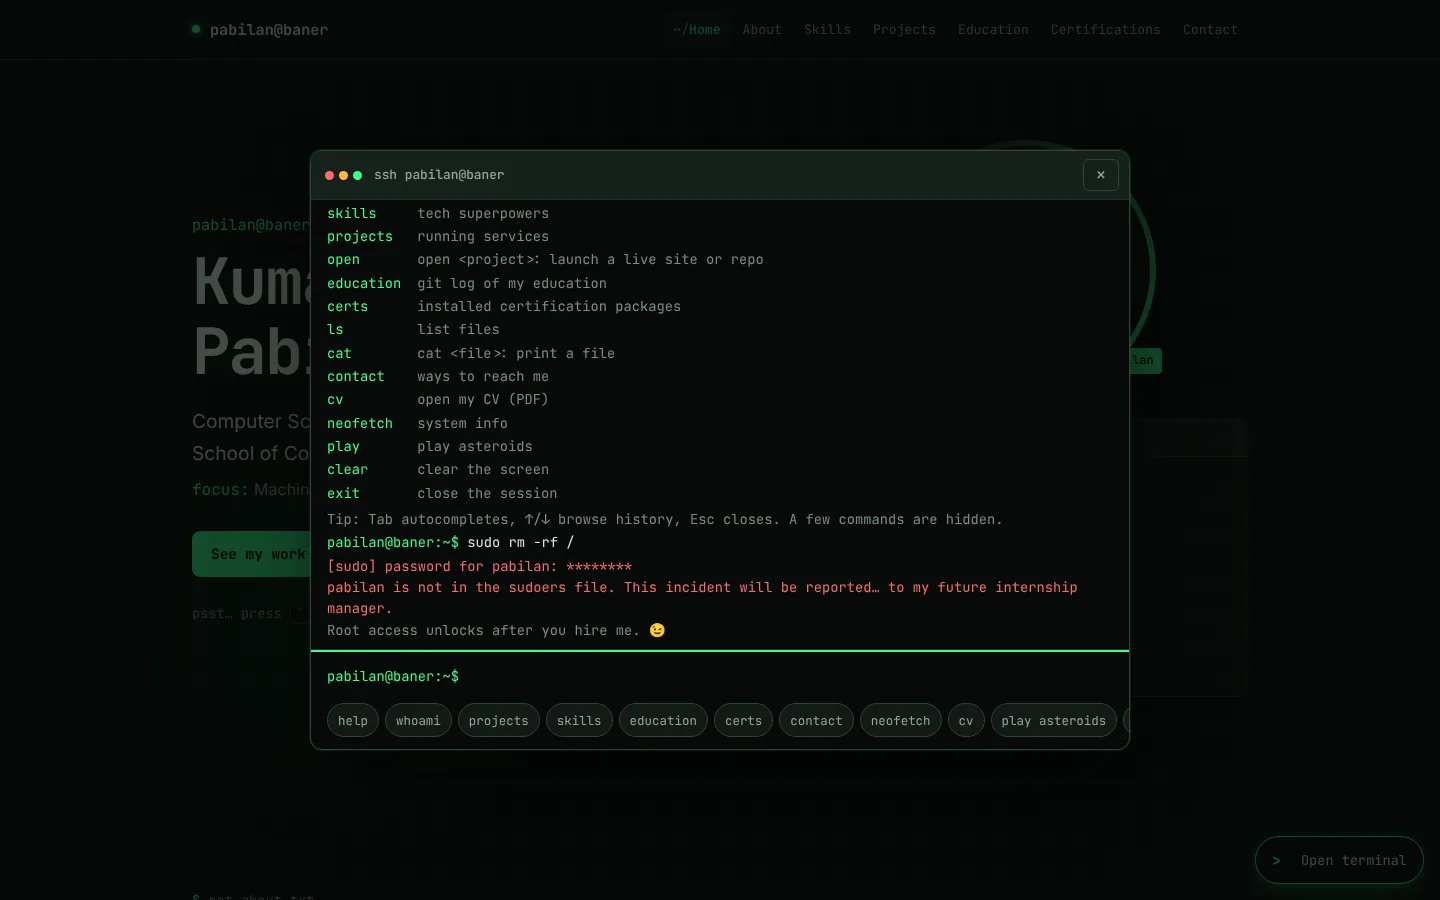
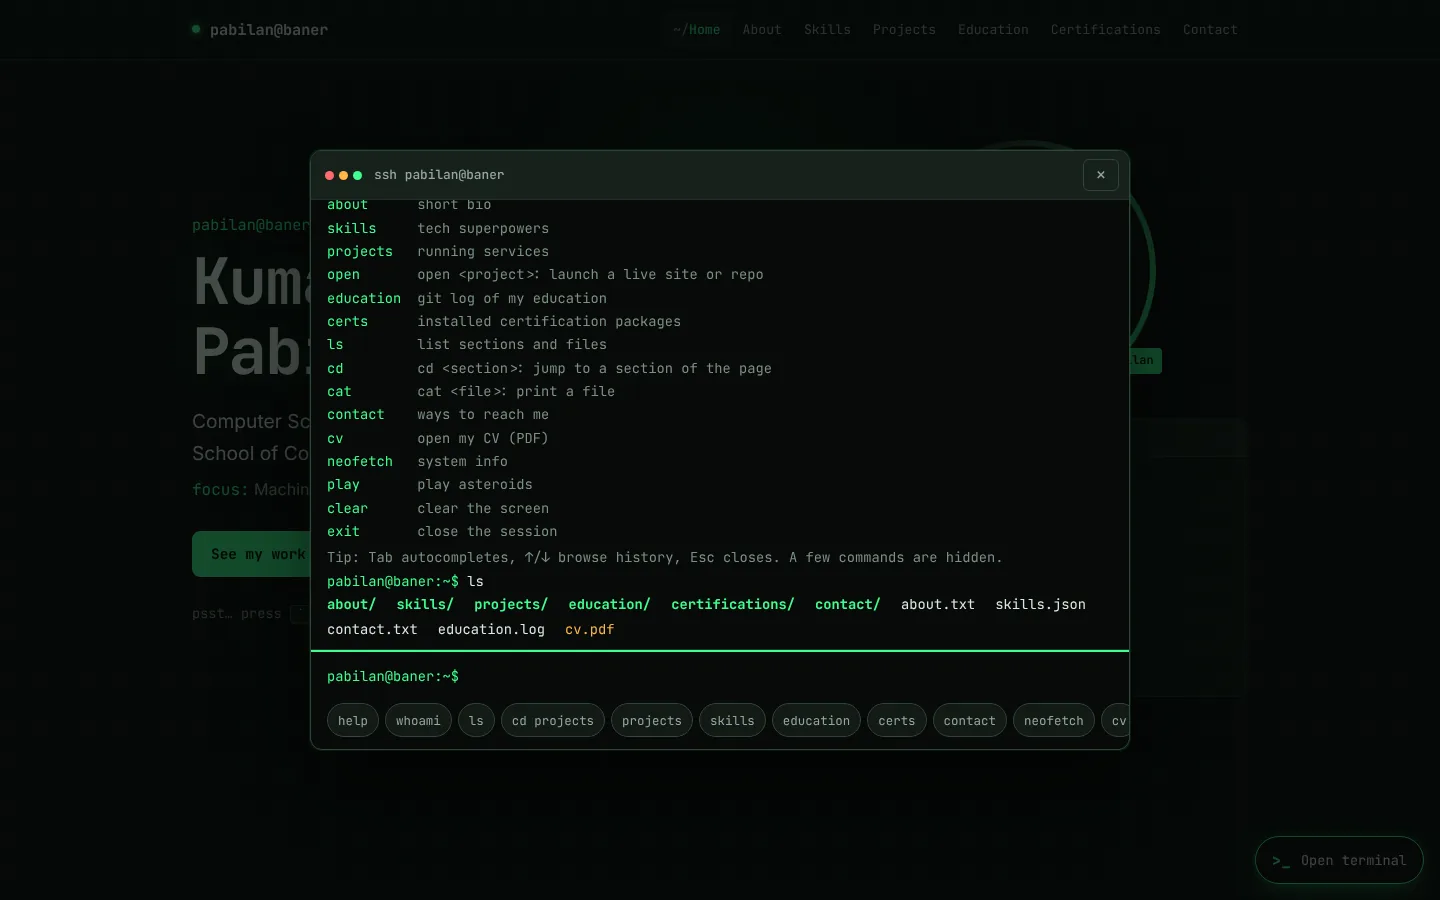
Remove quality-check section; add Builder Center post and images
- README: drop the Quality checks section and reword two challenge notes
- Refresh terminal screenshots to show ls/cd
- docs/post: cover image, eight post images (JPG) and the post body

Claude-Session: https://claude.ai/code/session_01U6XWX5e11wZVHvgbDSgZsU

diff --git a/docs/post/builder-center-post.md b/docs/post/builder-center-post.md
@@ -1,0 +1,101 @@
+I run a small self-hosted home server called **baner**. For this challenge I wanted a portfolio that felt like it belonged to me rather than to a template, so I designed the whole site as a live server dashboard for baner, and added a terminal you can actually "SSH" into.
+
+🔗 **Live site:** https://main.d2srve4h92m9bu.amplifyapp.com/
+💻 **Source code:** https://github.com/pabi9625/pabilan-aws-portfolio
+
+![Hero section with my name typed as a terminal command, my photo and a live server status panel](https://raw.githubusercontent.com/pabi9625/pabilan-aws-portfolio/main/docs/post/01-hero.jpg)
+
+## About me
+
+I'm a third-year Computer Science undergraduate at the University of Colombo School of Computing (UCSC) in Sri Lanka, with a prior Diploma in Software Engineering. I build and ship full-stack applications end to end, and my research focus is machine learning, applying data-driven models to practical, real-world problems. I'm looking for internships where I can combine solid software engineering with ML.
+
+## The concept: a server dashboard
+
+Every section is styled as part of the server:
+
+- **Hero:** my name types itself out after `whoami`, next to a status panel showing `status: open to internships`, my location, and an uptime counter that started when I joined UCSC in May 2024.
+- **About:** `cat about.txt` in a terminal window.
+- **Skills (Tech Superpowers):** a system monitor (`top`), with each skill group as a CPU panel and each skill as a running process. There are no fake percentage ratings; the activity bars are decorative.
+- **Projects:** `systemctl` services, each with a status dot (live, in progress, or source on GitHub). Hovering or focusing a card reveals its status readout.
+- **Education:** a `git log --graph`, with commit hashes, dates and messages.
+- **Certifications:** `apt list --installed`, grouped by provider in collapsible lists, with each certificate linking to its credential.
+
+![Skills shown as a system monitor](https://raw.githubusercontent.com/pabi9625/pabilan-aws-portfolio/main/docs/post/02-skills.jpg)
+
+![Projects shown as deployed services](https://raw.githubusercontent.com/pabi9625/pabilan-aws-portfolio/main/docs/post/03-projects.jpg)
+
+![Education shown as a git log](https://raw.githubusercontent.com/pabi9625/pabilan-aws-portfolio/main/docs/post/04-education.jpg)
+
+## Creative feature: SSH into baner
+
+Press the backtick key (`` ` ``), or click the floating **>_ Open terminal** button, and the site opens an SSH-style session into baner (`pabilan@baner:~$`), complete with a short, skippable login and message of the day.
+
+![The terminal running help and ls](https://raw.githubusercontent.com/pabi9625/pabilan-aws-portfolio/main/docs/post/05-terminal-help.jpg)
+
+What you can do in it:
+
+- `whoami`, `about`, `skills`, `projects`, `education`, `certs`, `contact` print my information in terminal style.
+- `ls` lists the page's sections as directories, and `cd projects` closes the terminal and scrolls the page to that section, so the terminal doubles as a way to navigate the site.
+- `open stridetrack` opens a live project or repo in a new tab, and `cv` opens my CV.
+- It behaves like a real shell: ↑/↓ command history, Tab autocomplete for commands, sections, project and file names, and a friendly "command not found" message.
+
+There are a few easter eggs too:
+
+- `sudo` politely denies you root access.
+- `neofetch` shows a system-info card about me, with my photo as the logo.
+- `play asteroids` launches a small Asteroids game inside the terminal, a nod to the Boot.dev course where I built Asteroids in Python and Pygame.
+
+![neofetch card in the terminal](https://raw.githubusercontent.com/pabi9625/pabilan-aws-portfolio/main/docs/post/06-terminal-neofetch.jpg)
+
+![Asteroids mini-game inside the terminal](https://raw.githubusercontent.com/pabi9625/pabilan-aws-portfolio/main/docs/post/07-terminal-asteroids.jpg)
+
+I wanted the feature to be fun without ever getting in the way:
+
+- **Optional:** everything the terminal shows is also on the normal page. It's an overlay that closes with Esc, the × button or a click outside, and focus returns to where you were.
+- **Mobile:** it opens full-screen with tappable command chips under the input, and the game gets on-screen touch controls.
+- **Accessible:** focus stays inside the dialog while it's open, and with reduced motion turned on the boot animation is skipped.
+
+![The terminal on mobile with tappable command chips](https://raw.githubusercontent.com/pabi9625/pabilan-aws-portfolio/main/docs/post/08-mobile-terminal.jpg)
+
+## How I built and deployed it on AWS
+
+The site is a static single-page app built with **React, TypeScript and Vite**, styled with plain CSS and no UI libraries. It's hosted on **AWS Amplify Hosting**:
+
+- **CI/CD from GitHub:** Amplify is connected to the `main` branch of my public repo, so every push triggers a new build and deploy. Each one takes about two minutes.
+- **Build configuration in code:** an `amplify.yml` file in the repo defines the build:
+  - `preBuild` installs Node 22 and runs `npm ci`;
+  - `build` runs `npm run build`;
+  - `artifacts` publishes the `dist/` folder.
+- **Global delivery over HTTPS:** the site's response headers show it served from Amazon S3 through the Amazon CloudFront CDN, on an HTTPS `amplifyapp.com` domain with no certificate setup needed.
+- **Safe deploys:** a failed build never replaces the live site, and earlier builds can be redeployed from the console.
+
+I also use AWS beyond this portfolio: one of the featured projects, **StrideTrack**, a walking and weight-loss tracker, runs on AWS Amplify with **Amazon Cognito** for sign-in and **AWS AppSync** for data synced across devices.
+
+## Challenges and how I solved them
+
+1. **Build environment version.** Vite 8 needs Node.js 20.19 or newer, so I pinned Node 22 in `amplify.yml` instead of relying on the build image's default.
+2. **Layout overflow on phones.** At 375px wide the page scrolled sideways because a long line (my university's name) was set not to wrap. Checking the site at 375, 768 and 1440px found it, and letting the text wrap fixed it.
+3. **Keyboard conflicts in the terminal.** Several keys needed two jobs:
+   - **Esc** both quits the game and closes the terminal, so the game handles it first.
+   - **Tab** both autocompletes and moves focus, so it only autocompletes after you've typed something.
+   - The backtick shortcut is ignored while you're typing in a text field.
+4. **Accessibility beyond the score.** Lighthouse gave Accessibility 100, but it only checks what's visible on first load. A closer check of the whole page found:
+   - text below WCAG AA contrast;
+   - text smaller than 12px;
+   - project links only 18px tall;
+   - sections that stayed blank in full-page screenshots until scrolled into view.
+
+   I fixed all of them.
+
+## What I learned
+
+- **Configuring Amplify with `amplify.yml`.** This was my second time hosting a site on AWS Amplify, and this time I learned much more about its build configuration. Keeping the build steps in `amplify.yml` means they're versioned with the code, and every push builds the same way.
+- **A memorable feature must never block the basics.** The terminal is the fun part, but visitors who never open it can still find everything.
+- **Automated scores aren't the whole story.** Testing real interactions, real screen widths and every link found issues a perfect score missed.
+- **Accessibility belongs in the design from the start.** Reduced-motion support, keyboard focus and contrast were much easier to get right as part of the theme than to add afterwards.
+
+## How it was built
+
+I built this with Claude Code as an AI pair programmer. The concept, content and decisions are mine. Claude helped write and test the code and draft this write-up.
+
+Thanks for reading! Open the terminal on the live site and try `neofetch` or `play asteroids`. 🚀

diff --git a/README.md b/README.md
@@ -78,14 +78,14 @@ I also use AWS beyond this portfolio. StrideTrack, one of the featured projects,
 ## Building it: challenges and how they were solved
 
 1. **Build environment version.** Vite 8 needs Node.js 20.19 or newer, so `amplify.yml` installs and selects Node 22 before `npm ci` rather than relying on the build image's default.
-2. **Layout overflow on phones.** At 375px the page scrolled sideways because a long line (the university name) was set not to wrap. Testing at 375, 768 and 1440px with an automated browser found it, and letting the text wrap fixed it.
+2. **Layout overflow on phones.** At 375px the page scrolled sideways because a long line (the university name) was set not to wrap. Checking the site at 375, 768 and 1440px found it, and letting the text wrap fixed it.
 3. **A transparent profile photo.** Flattening the image turned its transparent background black. The site keeps the transparent version (WebP with a PNG fallback), and a separate Open Graph image places the photo on the site's background colour, because link previews often show transparent images badly.
 4. **Keyboard conflicts in the terminal.** Several keys had two jobs:
    - **Esc** both quits the game and closes the terminal, so the game handles it first.
    - **Tab** both autocompletes and moves focus, so it only autocompletes when something has been typed.
    - The <kbd>`</kbd> shortcut is ignored while the visitor is typing in a text field.
 5. **Opening links from commands.** `window.open` with the `noopener` feature always returns `null`, so a blocked pop-up couldn't be detected. The terminal now opens the tab first and then clears `opener`, and it always prints a clickable link as a fallback.
-6. **Accessibility beyond the Lighthouse score.** Lighthouse gave Accessibility 100, but it only checked what was visible on first load. A full manual audit found:
+6. **Accessibility beyond the Lighthouse score.** Lighthouse gave Accessibility 100, but it only checked what was visible on first load. A closer check of the whole page found:
    - 10 text elements below WCAG AA contrast;
    - 115 text elements smaller than 12px;
    - 18px-tall project links;
@@ -104,20 +104,6 @@ I also use AWS beyond this portfolio. StrideTrack, one of the featured projects,
 - **A memorable feature must never block the basics.** Every terminal command has a normal-page equivalent, and the terminal is one key press away from being closed.
 - **Automated scores aren't the whole story.** Testing real interactions, real widths and every link found issues a perfect score missed.
 - **Accessibility shapes the design from the start.** Reduced-motion support, focus management and contrast were much easier to get right as part of the theme than to bolt on afterwards.
-
-## Quality checks (live site)
-
-| Lighthouse | Performance | Accessibility | Best Practices | SEO |
-|---|---|---|---|---|
-| Mobile | 98 | 100 | 100 | 100 |
-| Desktop | 93–99 (varies between runs) | 100 | 100 | 100 |
-
-The site was also tested in an automated browser:
-
-- **Responsive:** no horizontal scrolling at 375, 768 or 1440px, all text at least 12px, and every tap target at least 24px.
-- **Contrast:** all text meets WCAG AA.
-- **Navigation and links:** every nav link works, and the CV, project and certificate links all respond successfully.
-- **Terminal:** every command works.
 
 ## How it was built
 
